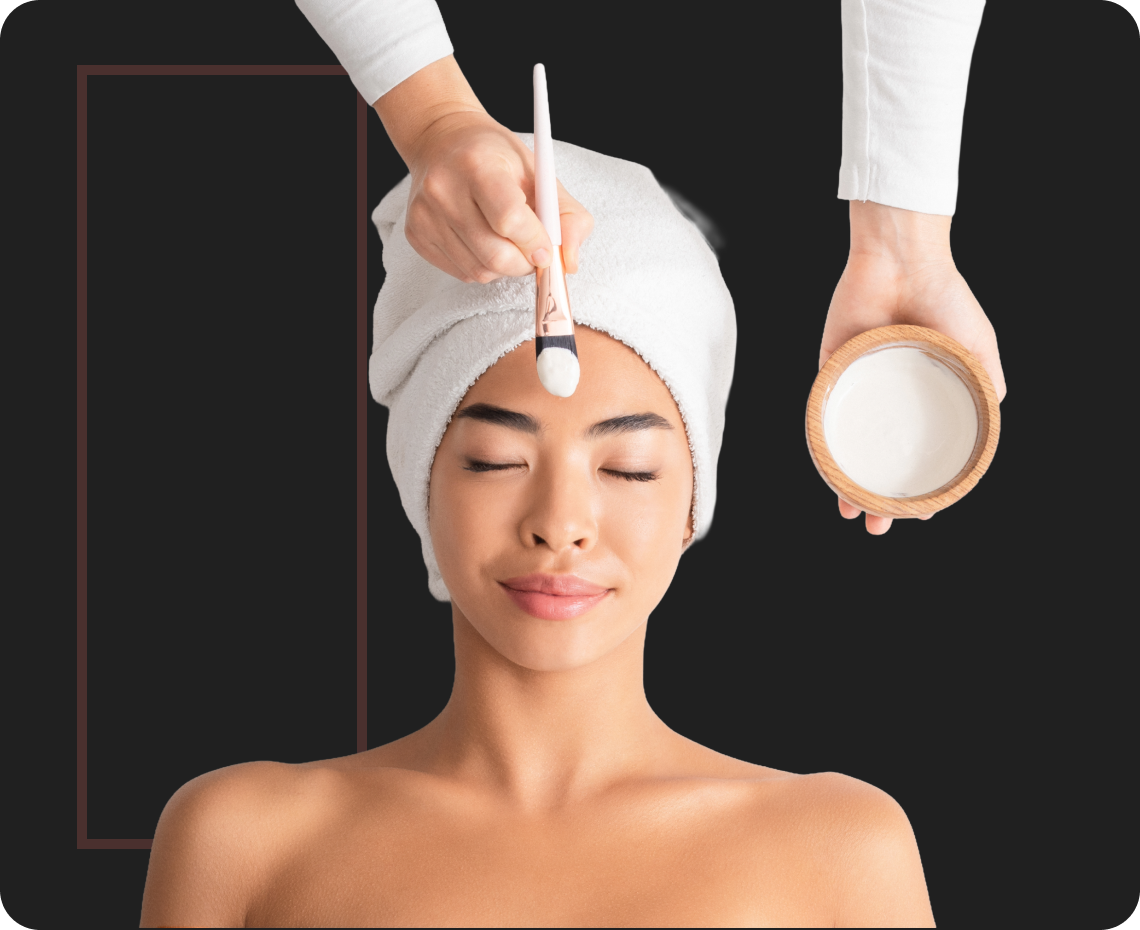
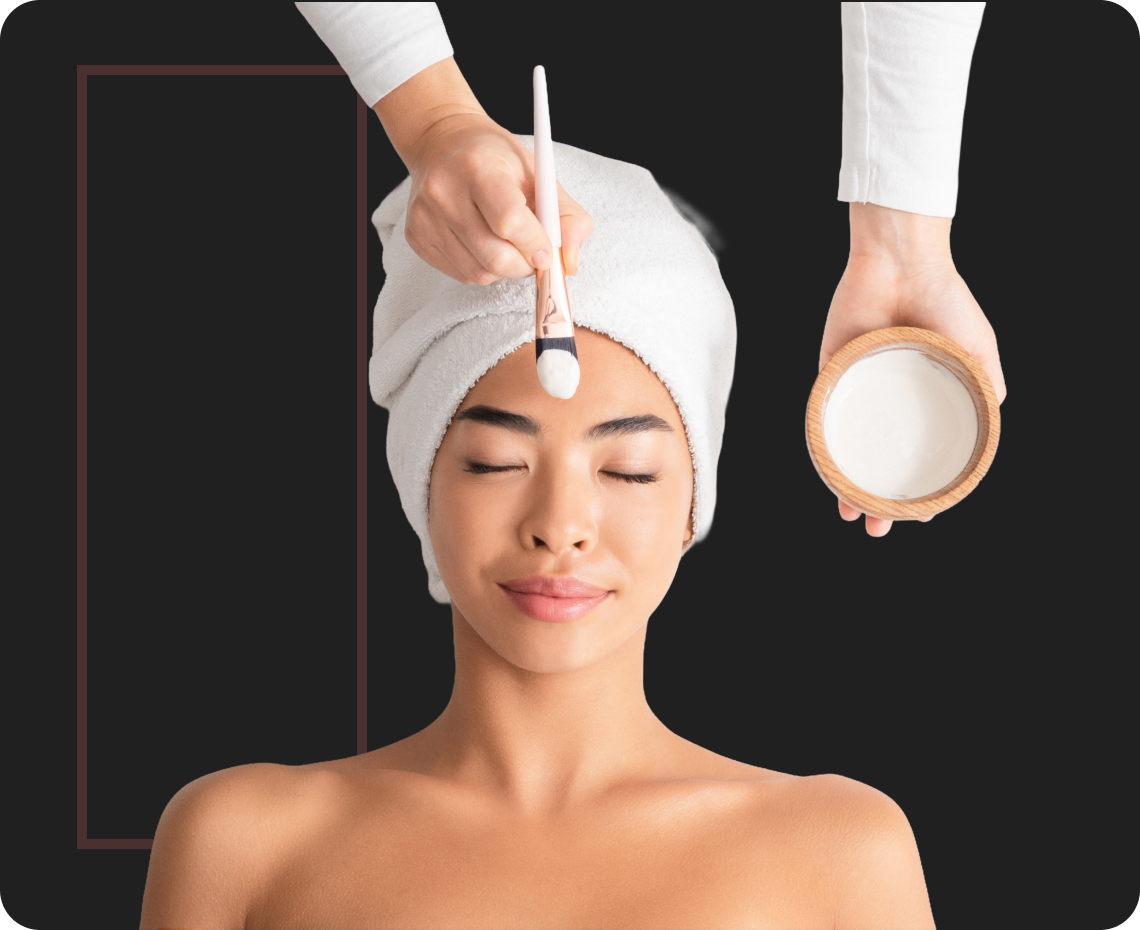
change images in when section with fade effect

diff --git a/app/sections/when/whenNeed.tsx b/app/sections/when/whenNeed.tsx
@@ -34,6 +34,24 @@ const itemVariants: Variants = {
     },
   },
 }
+const gallery = [
+  {
+    img: "/images/test_1.png",
+    hoverImg: "/images/test_5.png",
+  },
+  {
+    img: "/images/test_2.png",
+    hoverImg: "/images/test_6.png",
+  },
+  {
+    img: "/images/test_3.png",
+    hoverImg: "/images/test_7.png",
+  },
+  {
+    img: "/images/test_4.png",
+    hoverImg: "/images/test_8.png",
+  },
+]
 const WhenNeed = ()=>{
     const data: Item[] = [{
         title: "Book a Consultation",
@@ -133,28 +151,46 @@ const WhenNeed = ()=>{
   whileInView="visible"
   viewport={{ once: true, margin: "-100px" }}
 >
-  {[
-    "/images/test_1.png",
-    "/images/test_2.png",
-    "/images/test_3.png",
-    "/images/test_4.png",
-  ].map((src, i) => (
+  {gallery.map((item, i) => (
     <motion.div
       key={i}
       variants={itemVariants}
-      whileHover={{ scale: 1.05 }}
-      className="relative w-full h-[200px] xs:h-[300px] md:h-[400px] lg:h-[500px] overflow-hidden rounded-2xl"
+      className="relative w-full h-[200px] xs:h-[300px] md:h-[400px] lg:h-[500px] overflow-hidden rounded-2xl group"
+      whileHover="hover"
     >
-      <Image
-        src={src}
-        alt={`Gallery image ${i + 1}`}
-        fill
-        sizes="25vw"
-        className="object-cover"
-      />
+      {/* Base Image */}
+      <motion.div
+        className="absolute inset-0"
+        initial={{ opacity: 1 }}
+        variants={{ hover: { opacity: 0 } }}
+        transition={{ duration: 0.6, ease: "easeInOut" }}
+      >
+        <Image
+          src={item.img}
+          alt="Before"
+          fill
+          className="object-cover"
+        />
+      </motion.div>
+
+      {/* Hover Image */}
+      <motion.div
+        className="absolute inset-0"
+        initial={{ opacity: 0 }}
+        variants={{ hover: { opacity: 1 } }}
+        transition={{ duration: 0.6, ease: "easeInOut" }}
+      >
+        <Image
+          src={item.hoverImg}
+          alt="After"
+          fill
+          className="object-cover"
+        />
+      </motion.div>
     </motion.div>
   ))}
 </motion.div>
+
 
     </div>
 }

diff --git a/app/sections/marquee/marquee.tsx b/app/sections/marquee/marquee.tsx
@@ -43,8 +43,8 @@ const Marquee = ()=>{
           </motion.div>
         </div>
         <div className="flex gap-4">
-            {social.map((item: SocialItem, idx: number)=>(<Link href={item.link} target="_blank" aria-label={item.name}>
-            <div className={styles.icon} key={`Social_${item.name}_${idx}`}>
+            {social.map((item: SocialItem, idx: number)=>(<Link key={`Social_${item.name}_${idx}`} href={item.link} target="_blank" aria-label={item.name}>
+            <div className={styles.icon}>
                 {item.icon}
             </div>
             </Link>))}
